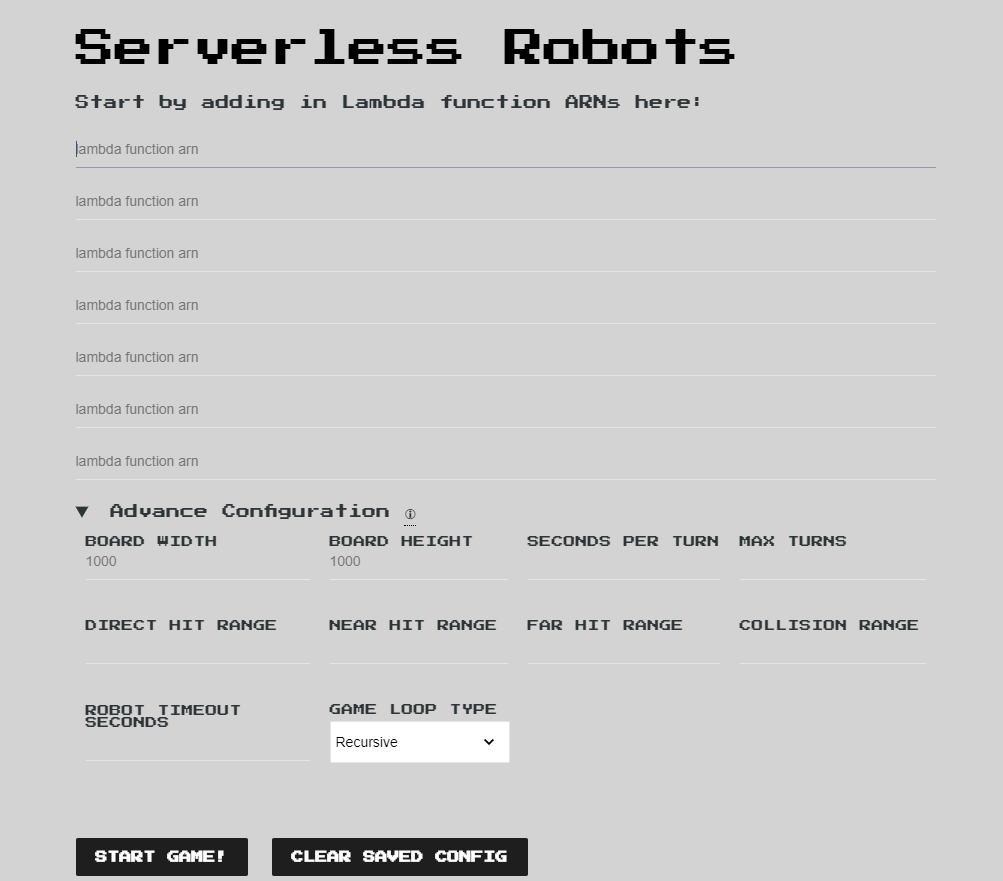
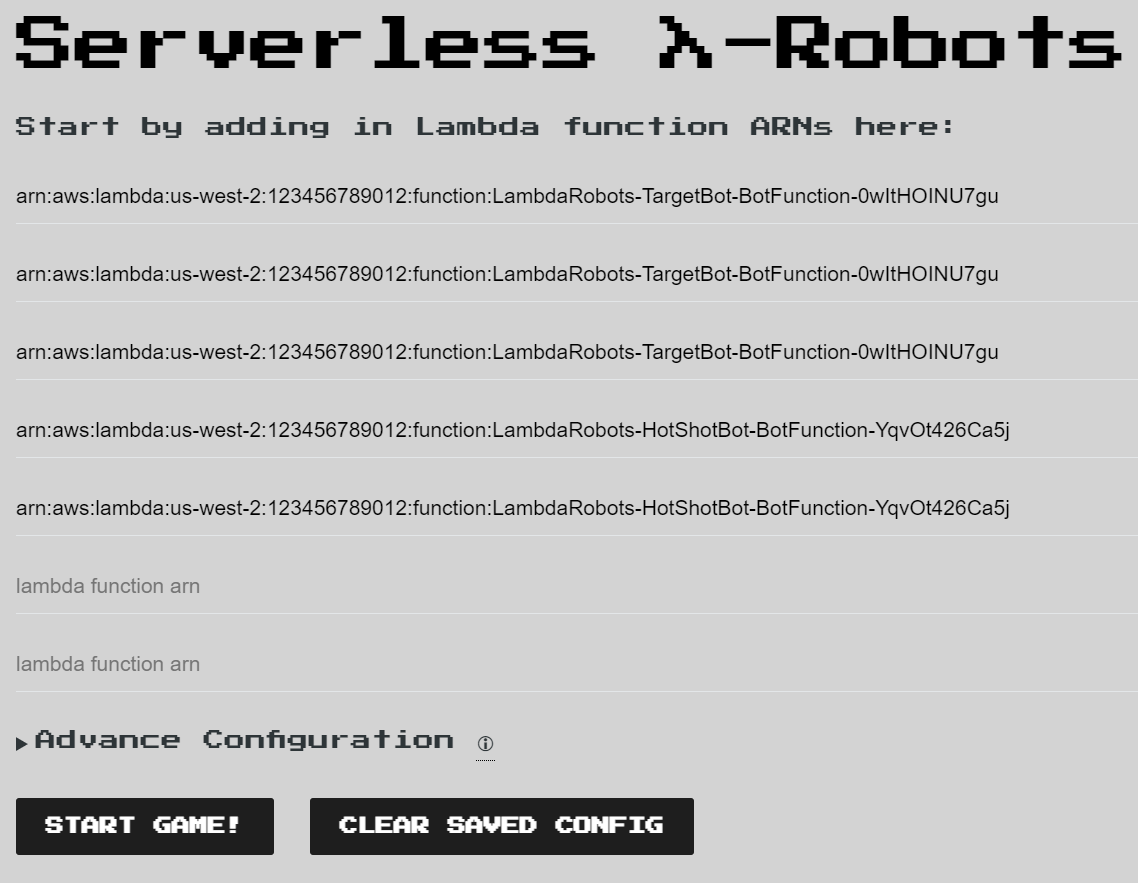
updated ReadMe

diff --git a/src/Bots/YosemiteSamBot/BotFunction/Function.cs b/src/Bots/YosemiteSamBot/BotFunction/Function.cs
@@ -37,12 +37,12 @@ namespace LambdaRobots.YosemiteSamBot.BotFunction {
 
         //--- Methods ---
         public override async Task<GetBuildResponse> GetBuildAsync() {
-
-            // TODO: this method is always invoked at the beginning of a match
             return new GetBuildResponse {
                 Name = "Yosemite Sam",
+                Armor = BotArmorType.Medium,
                 Engine = BotEngineType.ExtraLarge,
-                Missile = BotMissileType.Dart
+                Missile = BotMissileType.Dart,
+                Radar = BotRadarType.MidRange
             };
         }
 

diff --git a/src/Bots/HotShotBot/BotFunction/Function.cs b/src/Bots/HotShotBot/BotFunction/Function.cs
@@ -51,10 +51,10 @@ namespace LambdaRobots.HotShotBot.BotFunction {
         public override async Task<GetBuildResponse> GetBuildAsync() {
             return new GetBuildResponse {
                 Name = "HotShot",
-                Radar = BotRadarType.LongRange,
                 Armor = BotArmorType.Medium,
                 Engine = BotEngineType.Compact,
-                Missile = BotMissileType.Javelin
+                Missile = BotMissileType.Javelin,
+                Radar = BotRadarType.LongRange
             };
         }
 

diff --git a/ReadMe.md b/ReadMe.md
@@ -1,6 +1,6 @@
 # λ-Robots
 
-In λ-Robots (pronounced _Lambda Robots_), you program a battle bot that participates on a square game field. Each turn, the server invokes your bot's Lambda function to get its action for the next turn until either the bot wins or is destroyed.
+In λ-Robots (pronounced _Lambda Robots_), you build a battle bot that participates on a square game field. Each turn, the server invokes your bot's Lambda function to get its action for the next turn until either your bot wins, is destroyed, or time runs out.
 
 λ-Robots is a port of the 80s [P-Robots](https://www.dosgames.com/game/p-robots/) game to AWS Serverless .NET using [LambdaSharp](https://lambdasharp.net).
 
@@ -8,248 +8,110 @@ In λ-Robots (pronounced _Lambda Robots_), you program a battle bot that partici
 
 To get started, you must complete the followings steps.
 1. [Create an AWS Account](https://aws.amazon.com)
-1. [Install .NET 5 or later](https://dotnet.microsoft.com/download)
+1. [Install .NET 5 for LambdaSharp](https://dotnet.microsoft.com/download)
 1. [Setup LambdaSharp](https://lambdasharp.net/#install-lambdasharp-cli)
 
 ## Deploy the Game
 
-The following command deploys the `LambdaRobots.Game` module from the `lambdasharp` repository into your AWS account using [CloudFormation](https://aws.amazon.com/cloudformation/).
+Use LambdaSharp to deploy the `LambdaRobots.Game` module to your AWS account.
 ```bash
 lash deploy LambdaRobots.Game:2.0@lambdasharp
 ```
 
+This will create an S3 bucket for the game website, several Lambda functions for the game logic, and a DynamoDB table for the game state, as shown in this diagram. The battle bots can be deployed to any account, but must be in the same AWS region.
+
+![Architecture](Docs/Architecture.png)
+
 ## Deploy the Battle Bots
 
-λ-Robots includes three predefined bots that can be deployed to try out the game or challenge your own bot.
+λ-Robots includes three bots that can be deployed to try out the game and challenge your own bot.
 
-### Target Bot
+<dl>
 
-Deploy `TargetBbot` to your account and add its ARN three times to the λ-Robots server to create three targets.
+<dt>Target Bot</dt>
+<dd>
 
+Target Bot is a stationary bot that does not move or shoot. This bot is perfect target practice for other bots.
+
+<details>
+<summary>Build Configuration</summary>
+
+|Field  |Value  |
+|-------|-------|
+|Name   |Target
+|Armor  |Medium
+|Engine |Economy
+|Missile|Dart
+|Radar  |Ultra Short Range
+
+</details>
+
+_Deploy_
 ```bash
 lash deploy LambdaRobots.TargetBot:2.0@lambdasharp
 ```
+</dd>
 
-Now update the behavior of `BringYourOwnBot` to shoot down the target bots. For example, you can use luck, like `YosemiteSamBot`, which shoots in random directions, or targeting like `HotShotBot`. The latter uses the `ScanAsync()` method to find enemies and aim missiles at them. Remember that other bots may be out of radar range, requiring your bot to move periodically. Also, your bot can be damaged by its own missiles. Check `Game.FarHitRange` to make sure your target is beyond the damage range. If you don't mind a bit of self-inflicted pain, you can also use `Game.NearHitRange` or even `Game.DirectHitRange` instead.
+<dt>Yosemite Sam Bot</dt>
+<dd>
 
-### Yosemite Bot
+Yosemite Sam Bot runs in random directions across the board, unloading its missiles as fast as it can. This bot does not aim and travels in straight lines from edge to edge.
 
-Deploy `YosemiteSamBot` to your account and its ARN twice to the λ-Robots server to create two attackers.
+<details>
+<summary>Build Configuration</summary>
 
+|Field  |Value  |
+|-------|-------|
+|Name   |Yosemite Sam
+|Armor  |Medium
+|Engine |ExtraLarge
+|Missile|Dart
+|Radar  |Mid Range
+
+</details>
+
+_Deploy_
 ```bash
 lash deploy LambdaRobots.YosemiteSamBot:2.0@lambdasharp
 ```
 
-Now update the behavior of `BringYourOwnBot` to avoid getting shot. For example, you can continuous motion, like `YosemiteSamBot`, which zig-zags across the board, or reacting to damage like `HotShotBot`. Beware that a bot cannot change heading without suddenly stopping if its speed exceeds `Bot.MaxSpeed`.
+</dd>
 
+<dt>HotShot Bot</dt>
+<dd>
+
+HotShot Bot uses the `Scan` API to locate other bots before taking aim. It uses internal state to progressively refines its aim over time, making it very deadly to stationary targets. When HotShot is hit, it moves to a new random location to evade further damage.
+
+<details>
+<summary>Build Configuration</summary>
+
+|Field  |Value  |
+|-------|-------|
+|Name   |HotShot
+|Armor  |Medium
+|Engine |Compact
+|Missile|Javelin
+|Radar  |Long Range
+
+</details>
+
+_Deploy_
 ```bash
 lash deploy LambdaRobots.HotShotBot:2.0@lambdasharp
 ```
 
+</dd>
+
+</dl>
+
 ## Starting the Game
 
-You can add the bot lambda function ARN to the game board client in the browser.  You can add the ARN multiple times.
+Navigate to the URL shown at the end of the `LambdaRobots.Game` deployment. It will load the game configuration page where the ARNs for the battle bot can be entered. The same ARN can be used more than once as it represents a different instance of the same bot.
+
+In this screenshot, the game is configured to initialize with 3 Target bots and 2 HotShot bots.
 
 ![Game configuration](Docs/Configuration.png)
 
-Use the **Advance Configuration** to change any default settings.  Use **Clear Saved Config** to reset all settings to default.
+Click `Start Game` to initialize the bots and see the match unfold.
 
-## Build Your Own Bot
-
-Open a command line and navigate to your projects folder. Run the following command to clone the λ-Robots challenge directory into a `LambdaRobots` sub-folder.
-```bash
-git clone https://github.com/LambdaSharp/LambdaRobots.git
-cd LambdaRobots
-```
-
-Finally, build and deploy the `BringYourOwnBot` module, which will be the project you will be working on
-The following command builds and deploys the AWS Lambda function for your bot:
-
-```bash
-lash deploy src/Bots/BringYourOwnBot
-```
-
-Consider modifying your bot build by tuning the engine, armor, missile, and radar to suit your attack and evasion strategies. Remember that your build cannot exceed 8 points, or your bot will be disqualified from the competition.
-
-**NOTE:** Open `src/Bots/BringYourOwnBot/BotFunction/Function.cs` and customize the `Name` of your bot to distinguish it from other bots.
-
-
-
-
-
-
-
-
-
-
-## BOSS LEVEL: Enter the Multi-Team Deathmatch Competition
-
-For the boss level, your opponent is every other team! Submit your bot ARN to final showdown and see how well it fares.
-
-**May the odds be ever in your favor!**
-
-## Programming Reference
-
-### Pre-Build Lambda-Robots
-
-The `src/Bots` folder contains additional bots to deploy that have different behaviors.
-Next, we need a few bots to battle it out. The cloned git repository contains a few that are ready to be deployed.
-* `TargetBot`: This is a stationary bot for other bots to practice on.
-* `YosemiteSamBot`: This bot runs around shooting in random directions as fast as it can.
-* `HotShotBot`: This bot uses its radar to find other bots and fire at them. When hit, this bot moves around the board.
-
-### LambdaRobots SDK
-
-Derive your Lambda-Robot from the `ALambdaRobotFunction` provided by the SDK.
-
-#### Abstract Methods
-The base class requires two methods to be implemented:
-
-|Method             |Description|
-|-------------------|-----------|
-|`public Task<LambdaRobotBuild> GetBuildAsync()`|This method returns the bot build information, including its name, armor, engine, missile type, and radar. Note that by default, a build cannot exceed 8 points or the bot will be disqualified at the beginning of the match.|
-|`public Task GetActionAsync()`|This method returns the actions taken by the bot during the turn|
-
-#### Properties
-The most commonly needed properties are readily available as properties from the base class. Additional information about the game or the bot is available via the `Game` and `Bot` properties, respectively.
-
-|Property           |Type    |Description |
-|-------------------|--------|------------|
-|`BreakingDistance` |`float` |Distance required to stop at the current speed.|
-|`Damage`           |`float` |Bot damage. Value is always between 0 and `Bot.MaxDamage`. When the value is equal to `Bot.MaxDamage` the bot is considered killed.|
-|`Game`             |`Game`  |Game information data structure. _See below._|
-|`Heading`          |`float` |Bot heading. Value is always between `-180` and `180`.|
-|`Random`           |`Random`|Initialized random number generator. Instance of [Random Class](https://docs.microsoft.com/en-us/dotnet/api/system.random?view=netstandard-2.0).|
-|`ReloadCoolDown`   |`float` |Number of seconds until the missile launcher is ready again.|
-|`Bot`              |`LambdaBot` |Bot information data structure. _See below._|
-|`Speed`            |`float` |Bot speed. Value is between `0` and `Bot.MaxSpeed`.|
-|`State`            |`TState`|Bot state based on custom type. Used to store information between turns.|
-|`X`                |`float` |Horizontal position of bot. Value is between `0` and `Game.BoardWidth`.|
-|`Y`                |`float` |Vertical position of bot. Value is between `0` and `Game.BoardHeight`.|
-
-##### `Bot` Properties
-|Property           |Type    |Description |
-|-------------------|--------|------------|
-|`Acceleration`|`float`|Acceleration when speeding up. (m/s^2)|
-|`CollisionDamage`|`float`|Amount of damage the bot receives from a collision.|
-|`Damage`|`float`|Accumulated bot damage. Between `0` and `MaxDamage`.|
-|`Deceleration`|`float`|Deceleration when speeding up. (m/s^2)|
-|`DirectHitDamage`|`float`|Amount of damage the bot receives from a direct hit.|
-|`FarHitDamage`|`float`|Amount of damage the bot receives from a far hit.|
-|`Heading`|`float`|Bot heading. Between `0` and `360`. (degrees)|
-|`Id`|`string`|Globally unique bot ID.|
-|`Index`|`int`|Index position of bot. Starts at `0`.|
-|`LastStatusUpdate`|`string`|Timestamp of when the bot status was last updated.|
-|`MaxDamage`|`float`|Maximum damage before the bot is destroyed.|
-|`MaxSpeed`|`float`|Maximum speed for bot. (m/s)|
-|`MaxTurnSpeed`|`float`|Maximum speed at which the bot can change heading without a sudden stop. (m/s)|
-|`MissileDirectHitDamageBonus`|`float`|Bonus damage on target for a direct hit.|
-|`MissileFarHitDamageBonus`|`float`|Bonus damage on target for a far hit.|
-|`MissileNearHitDamageBonus`|`float`|Bonus damage on target for a near hit.|
-|`MissileRange`|`float`|Maximum range for missile. (m)|
-|`MissileReloadCooldown`|`float`|Number of seconds between each missile launch. (s)|
-|`MissileVelocity`|`float`|Travel velocity for missile. (m/s)|
-|`Name`|`string`|Bot display name.|
-|`NearHitDamage`|`float`|Amount of damage the bot receives from a near hit.|
-|`RadarMaxResolution`|`float`|Maximum degrees the radar can scan beyond the selected heading. (degrees)|
-|`RadarRange`|`float`|Maximum range at which the radar can detect an opponent. (m)|
-|`ReloadCoolDown`|`float`|Number of seconds before the bot can fire another missile. (s)|
-|`Speed`|`float`|Bot speed. Between `0` and `MaxSpeed`. (m/s)|
-|`Status`|`LambdaRobotStatus`|Bot status. Either `Alive` or `Dead`.|
-|`TargetHeading`|`float`|Desired heading for bot. The heading will be adjusted accordingly every turn. (degrees)|
-|`TargetSpeed`|`float`|Desired speed for bot. The current speed will be adjusted accordingly every turn. (m/s)|
-|`TimeOfDeathGameTurn`|`int`|Game turn during which the bot died. `-1` if bot is alive.|
-|`TotalCollisions`|`int`|Number of collisions with walls or other bots during match.|
-|`TotalDamageDealt`|`float`|Damage dealt by missiles during match.|
-|`TotalKills`|`int`|Number of confirmed kills during match.|
-|`TotalMissileFiredCount`|`int`|Number of missiles fired by bot during match.|
-|`TotalMissileHitCount`|`int`|Number of missiles that hit a target during match.|
-|`TotalTravelDistance`|`float`|Total distance traveled by bot during the match. (m)|
-|`X`|`float`|Bot horizontal position.|
-|`Y`|`float`|Bot vertical position.|
-
-##### `Game` Properties
-|Property               |Type    |Description |
-|-----------------------|--------|------------|
-|`ApiUrl`               |`string`|URL for game server API.|
-|`BoardHeight`          |`float` |Height of the game board.|
-|`BoardWidth`           |`float` |Width of the game board.|
-|`CollisionRange`       |`float` |Distance between bots to count as a collision.|
-|`DirectHitRange`       |`float` |Distance for missile impact to count as direct hit.|
-|`FarHitRange`          |`float` |Distance for missile impact to count as far hit.|
-|`GameTurn`             |`int`   |Current game turn. Starts at `1`.|
-|`Id`                   |`string`|Unique Game ID.|
-|`LastStatusUpdate`     |`string`|Timestamp of when the board status was last updated.|
-|`MaxBuildPoints`       |`int`   |Maximum number of build points a bot can use.|
-|`MaxGameTurns`         |`int`   |Maximum number of turns before the game ends in a draw.|
-|`MinimumSecondsPerTurn`|`float` |Number of seconds elapsed between game turns.|
-|`NearHitRange`         |`float` |Distance for missile impact to count as near hit.|
-|`SecondsSinceLastTurn` |`float` |Number of seconds elapsed since the last game turn.|
-
-#### Primary Methods
-The following methods represent the core capabilities of the bot. They are used to move, fire missiles, and scan its surroundings.
-
-|Method             |Description|
-|-------------------|-----------|
-|`void FireMissile(float heading, float distance)`|Fire a missile in a given direction with impact at a given distance. A missile can only be fired if `Bot.ReloadCoolDown` is `0`.|
-|`Task<float?> ScanAsync(float heading, float resolution)`|Scan the game board in a given heading and resolution. The resolution specifies in the scan arc centered on `heading` with +/- `resolution` tolerance. The max resolution is limited to `Bot.RadarMaxResolution`.|
-|`void SetHeading(float heading)`|Set heading in which the bot is moving. Current speed must be below `Bot.MaxTurnSpeed` to avoid a sudden stop.|
-|`void SetSpeed(float speed)`|Set the speed for the bot. Speed is adjusted according to `Bot.Acceleration` and `Bot.Deceleration` characteristics.|
-
-#### Support Methods
-The following methods are provided to make some common operations easier, but do not introduce n
-
-|Method             |Description|
-|-------------------|-----------|
-|`float AngleToXY(float x, float y)`|Determine angle in degrees relative to current bot position. Return value range from `-180` to `180` degrees.|
-|`float DistanceToXY(float x, float y)`|Determine distance relative to current bot position.|
-|`void FireMissileToXY(float x, float y)`|Fire a missile in at the given position. A missile can only be fired if `Bot.ReloadCoolDown` is `0`.|
-|`bool MoveToXY(float x, float y)`|Adjust speed and heading to move bot to specified coordinates. Call this method on every turn to keep adjusting the speed and heading until the destination is reached.|
-|`float NormalizeAngle(float angle)`|Normalize angle to be between `-180` and `180` degrees.|
-
-### Bot Build
-
-By default, 8 build points are available to allocate in any fashion. The bot is disqualified if its build exceeds the maximum number of build points.
-
-The default configuration for each is shown in bold font and an asterisk (*).
-
-#### Radar
-
-|Radar Type      |Radar Range |Radar Resolution|Points|
-|----------------|------------|----------------|------|
-|UltraShortRange |200 meters  |45 degrees      |0     |
-|ShortRange      |400 meters  |20 degrees      |1     |
-|**MidRange (*)**|600 meters  |10 degrees      |2     |
-|LongRange       |800 meters  |8 degrees       |3     |
-|UltraLongRange  |1,000 meters|5 degrees       |4     |
-
-#### Engine
-
-|Engine Type     |Max. Speed |Acceleration|Points|
-|----------------|-----------|------------|------|
-|Economy         |60 m/s     |7 m/s^2     |0     |
-|Compact         |80 m/s     |8 m/s^2     |1     |
-|**Standard (*)**|100 m/s    |10 m/s^2    |2     |
-|Large           |120 m/s    |12 m/s^2    |3     |
-|ExtraLarge      |140 m/s    |13 m/s^2    |4     |
-
-#### Armor
-
-|Armor Type    |Direct Hit|Near Hit|Far Hit|Collision|Max. Speed |Deceleration  |Points|
-|--------------|----------|--------|-------|---------|-----------|--------------|------|
-|UltraLight    |50        |25      |12     |10       |+35 m/s    |30 m/s^2      |0     |
-|Light         |16        |8       |4      |3        |+25 m/s    |25 m/s^2      |1     |
-|**Medium (*)**|8         |4       |2      |2        |-          |20 m/s^2      |2     |
-|Heavy         |4         |2       |1      |1        |-25 m/s    |15 m/s^2      |3     |
-|UltraHeavy    |2         |1       |0      |1        |-45 m/s    |10 m/s^2      |4     |
-
-#### Missile
-
-|Missile Type   |Max. Range  |Velocity|Direct Hit Bonus|Near Hit Bonus|Far Hit Bonus|Cooldown|Points|
-|---------------|------------|--------|----------------|--------------|-------------|--------|------|
-|Dart           |1,200 meters|250 m/s |0               |0             |0            |0 sec   |0     |
-|Arrow          |900 meters  |200 m/s |1               |1             |0            |1 sec   |1     |
-|**Javelin (*)**|700 meters  |150 m/s |3               |2             |1            |2 sec   |2     |
-|Cannon         |500 meters  |100 m/s |6               |4             |2            |3 sec   |3     |
-|BFG            |350 meters  |75 m/s  |12              |8             |4            |5 sec   |4     |
-
+![Game Play](Docs/GamePlay.png)
